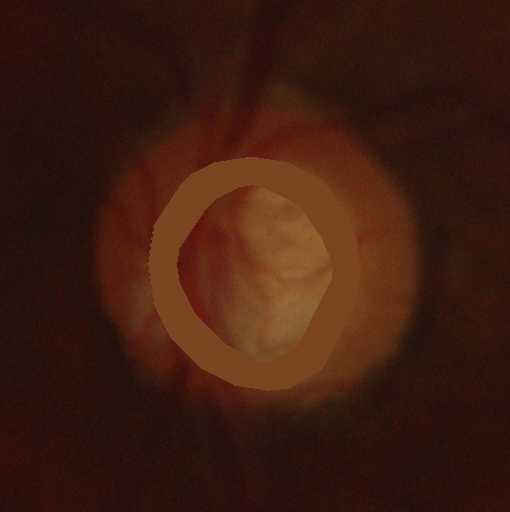
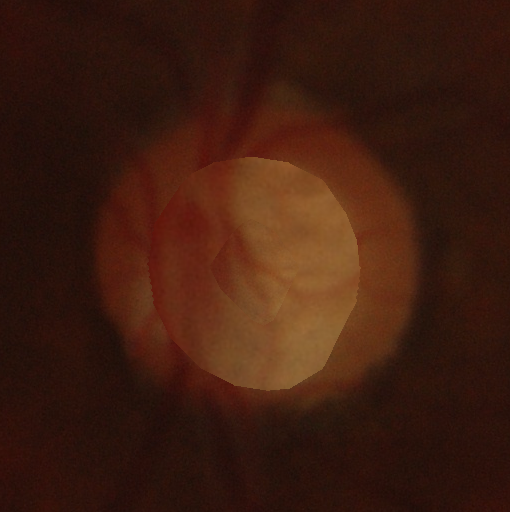
add

diff --git a/segment/dataloader/transform.py b/segment/dataloader/transform.py
@@ -278,6 +278,9 @@ def blur(img, p=0.5):
 #         mask = Image.fromarray(mask.astype(np.uint8))
 #
 #     return img, mask
+
+
+# v5
 def cutout(img, mask, p=0.5, value_min=0, value_max=255, pixel_level=True):
     if np.random.random() < p:
         img = np.array(img)
@@ -287,31 +290,36 @@ def cutout(img, mask, p=0.5, value_min=0, value_max=255, pixel_level=True):
         mask_2 = (mask == 2).astype(np.uint8)
 
         # 向内腐蚀50个像素
-        kernel = cv2.getStructuringElement(cv2.MORPH_RECT, (80, 80))
+        kernel = cv2.getStructuringElement(cv2.MORPH_RECT, (100, 100))
         mask_2_eroded = cv2.erode(mask_2, kernel)
 
         # 计算类别2的边缘（原始的类别2减去腐蚀后的结果）
         mask_edge = mask_2 - mask_2_eroded
-        edge_y, edge_x = np.where(mask_edge > 0)
 
-        # 创建x和y的坐标网格
-        h, w = img.shape[:2]
-        x, y = np.meshgrid(np.arange(w), np.arange(h))
+        # 找到mask中像素值为1的部分
+        mask_1 = (mask == 1).astype(np.uint8)
 
-        # 创建一个从边缘区域指向图像中心的向量场
-        center_x, center_y = w // 2, h // 2
-        vectors_x = center_x - x
-        vectors_y = center_y - y
+        # 获取mask类别1的区域的边界
+        contours, _ = cv2.findContours(mask_1, cv2.RETR_EXTERNAL, cv2.CHAIN_APPROX_SIMPLE)
+        x, y, w, h = cv2.boundingRect(contours[0])
 
-        # 使用向量场创建一个坐标映射
-        map_x = (x + vectors_x * mask_edge).astype(np.float32)
-        map_y = (y + vectors_y * mask_edge).astype(np.float32)
+        # 从img中裁剪mask类别1对应的区域
+        patch = img[y:y + h, x:x + w]
 
-        # 使用cv2.remap进行插值
-        img = cv2.remap(img, map_x, map_y, interpolation=cv2.INTER_LINEAR, borderMode=cv2.BORDER_REFLECT)
+        # 创建一个和img大小相同的空图像
+        patch_resized = np.zeros_like(img)
+
+        # 将裁剪出的patch放大/缩小到和被掩盖部分的边缘相同的大小
+        patch_resized_edge = cv2.resize(patch, (mask_edge.shape[1], mask_edge.shape[0]))
+
+        # 使用mask_edge作为模板，将patch_resized_edge粘贴到patch_resized上
+        patch_resized[mask_edge > 0] = patch_resized_edge[mask_edge > 0]
+
+        # 将patch_resized的内容粘贴到img上
+        img[mask_edge > 0] = patch_resized[mask_edge > 0]
 
         # 将mask的被掩盖部分填充为1
-        mask[edge_y, edge_x] = 1
+        mask[mask_edge > 0] = 1
 
         img = Image.fromarray(img.astype(np.uint8))
         mask = Image.fromarray(mask.astype(np.uint8))

diff --git a/segment/demo/circle_out/circle_out.py b/segment/demo/circle_out/circle_out.py
@@ -212,10 +212,61 @@ def circle_out_v4(img, mask, p=1.0):
     return img, mask
 
 
+import cv2
+import numpy as np
+from PIL import Image
+
+
+def circle_out_v5(img, mask, p=1.0):
+    if np.random.random() < p:
+        img = np.array(img)
+        mask = np.array(mask)
+
+        # 找到mask中像素值为2的部分
+        mask_2 = (mask == 2).astype(np.uint8)
+
+        # 向内腐蚀50个像素
+        kernel = cv2.getStructuringElement(cv2.MORPH_RECT, (100, 100))
+        mask_2_eroded = cv2.erode(mask_2, kernel)
+
+        # 计算类别2的边缘（原始的类别2减去腐蚀后的结果）
+        mask_edge = mask_2 - mask_2_eroded
+
+        # 找到mask中像素值为1的部分
+        mask_1 = (mask == 1).astype(np.uint8)
+
+        # 获取mask类别1的区域的边界
+        contours, _ = cv2.findContours(mask_1, cv2.RETR_EXTERNAL, cv2.CHAIN_APPROX_SIMPLE)
+        x, y, w, h = cv2.boundingRect(contours[0])
+
+        # 从img中裁剪mask类别1对应的区域
+        patch = img[y:y + h, x:x + w]
+
+        # 创建一个和img大小相同的空图像
+        patch_resized = np.zeros_like(img)
+
+        # 将裁剪出的patch放大/缩小到和被掩盖部分的边缘相同的大小
+        patch_resized_edge = cv2.resize(patch, (mask_edge.shape[1], mask_edge.shape[0]))
+
+        # 使用mask_edge作为模板，将patch_resized_edge粘贴到patch_resized上
+        patch_resized[mask_edge > 0] = patch_resized_edge[mask_edge > 0]
+
+        # 将patch_resized的内容粘贴到img上
+        img[mask_edge > 0] = patch_resized[mask_edge > 0]
+
+        # 将mask的被掩盖部分填充为1
+        mask[mask_edge > 0] = 1
+
+        img = Image.fromarray(img.astype(np.uint8))
+        mask = Image.fromarray(mask.astype(np.uint8))
+
+    return img, mask
+
+
 img = Image.open('./drishtiGS_002.png')
 mask = Image.open('./drishtiGS_002_gt.png')
 # out_img,out_mask = cutout(img,mask)
-out_img,out_mask = circle_out_v4(img=img,mask=mask,p=1.0)
+out_img,out_mask = circle_out_v5(img=img,mask=mask,p=1.0)
 out_img.save('out_img.png')
 out_mask.putpalette(cmap)
 out_mask.save('out_mask.png')
